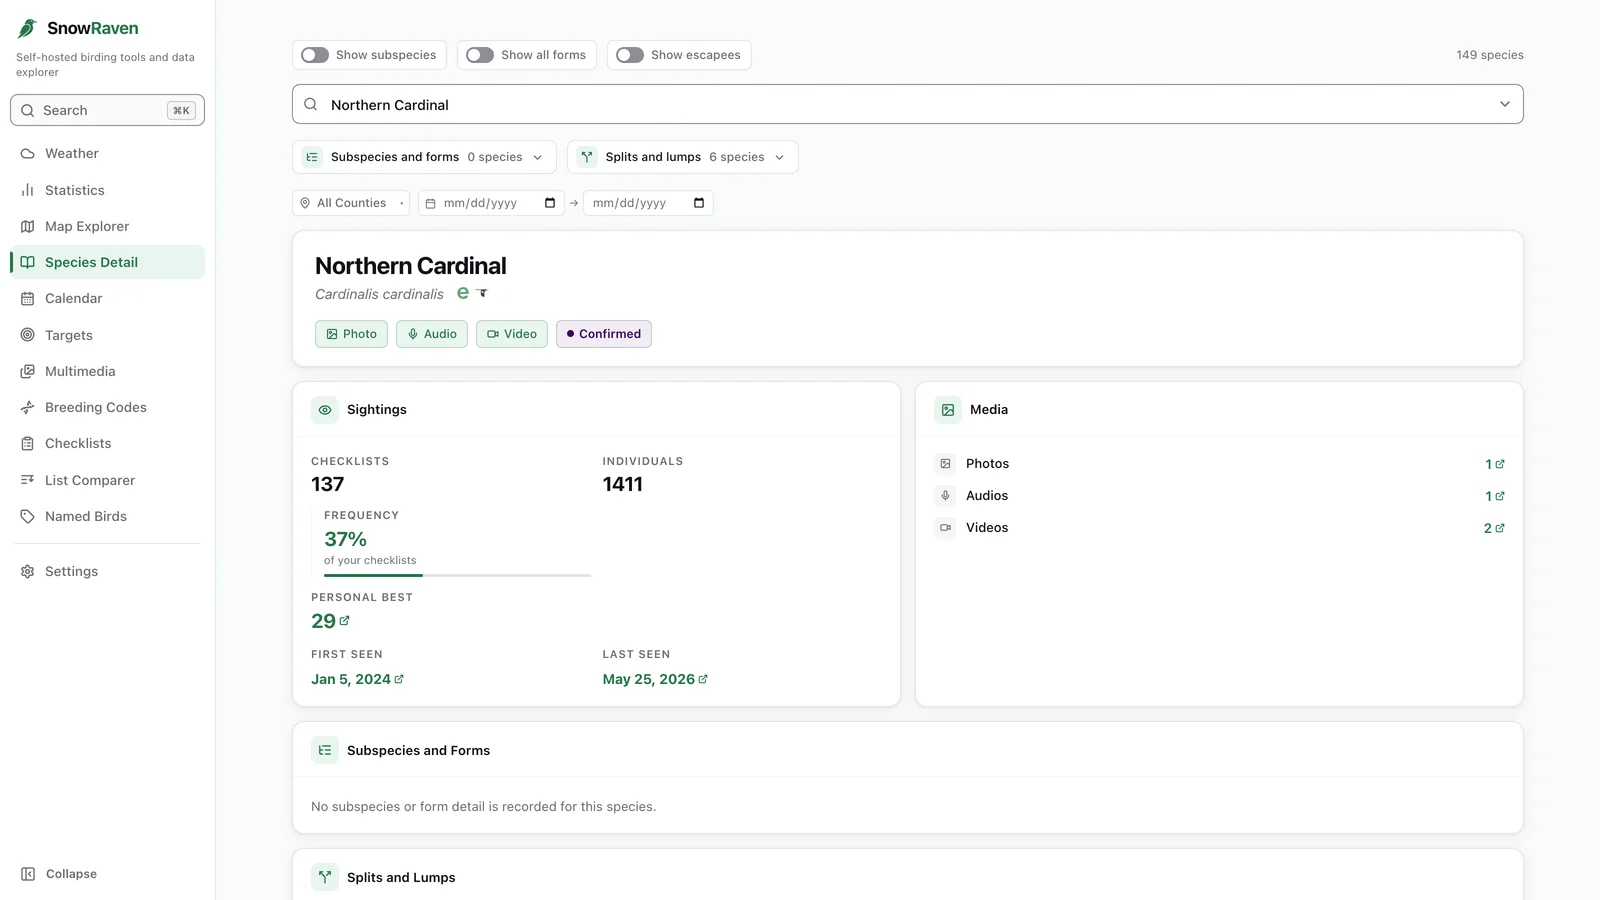
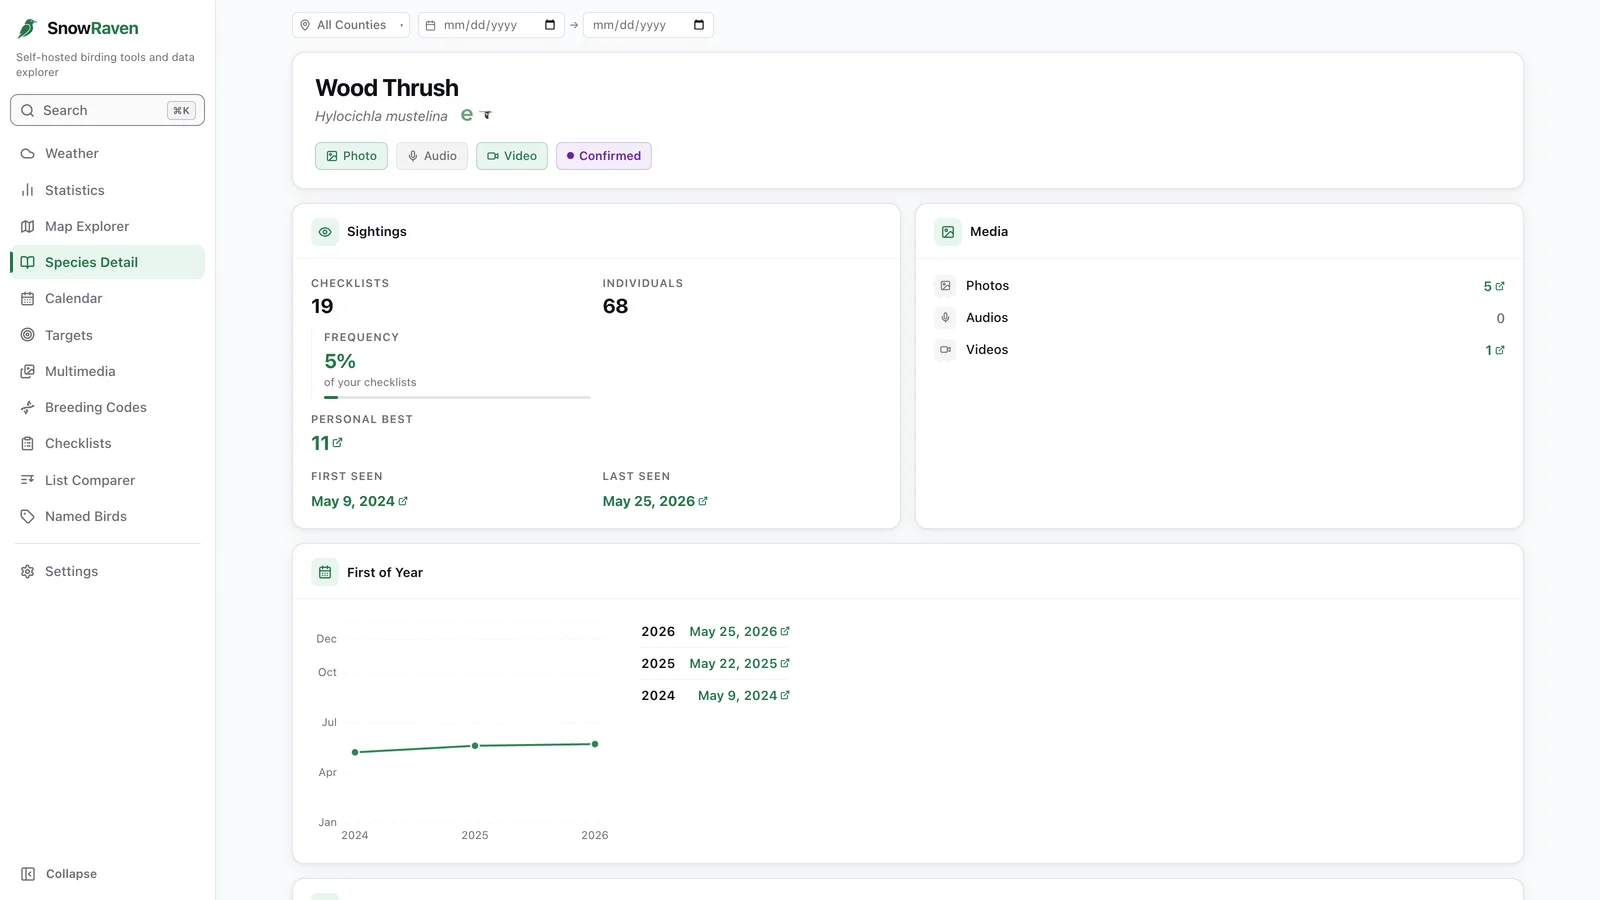
chore(website): Species Detail screenshot shows the First of Year card
website/assets/shots/species.webp is retaken with Wood Thrush, whose
first dates fall in mid-May, and framed so the whole First of Year card
and its chart are in view (1600x900, unchanged size). Its alt text in
website/index.html names the bird and the card. Both approved by the
user; nothing else on the site changes.

diff --git a/website/index.html b/website/index.html
@@ -245,7 +245,7 @@
           </div>
           <figure class="feature-media shot-slot" data-shot="species">
             <img src="assets/shots/species.webp" width="1600" height="900"
-                 alt="The Species Detail tab for Northern Cardinal, showing sightings, media counts, and breeding category." loading="lazy" />
+                 alt="The Species Detail tab for Wood Thrush, showing sightings, media counts, breeding category and the First of Year card with its chart." loading="lazy" />
           </figure>
         </article>
 
